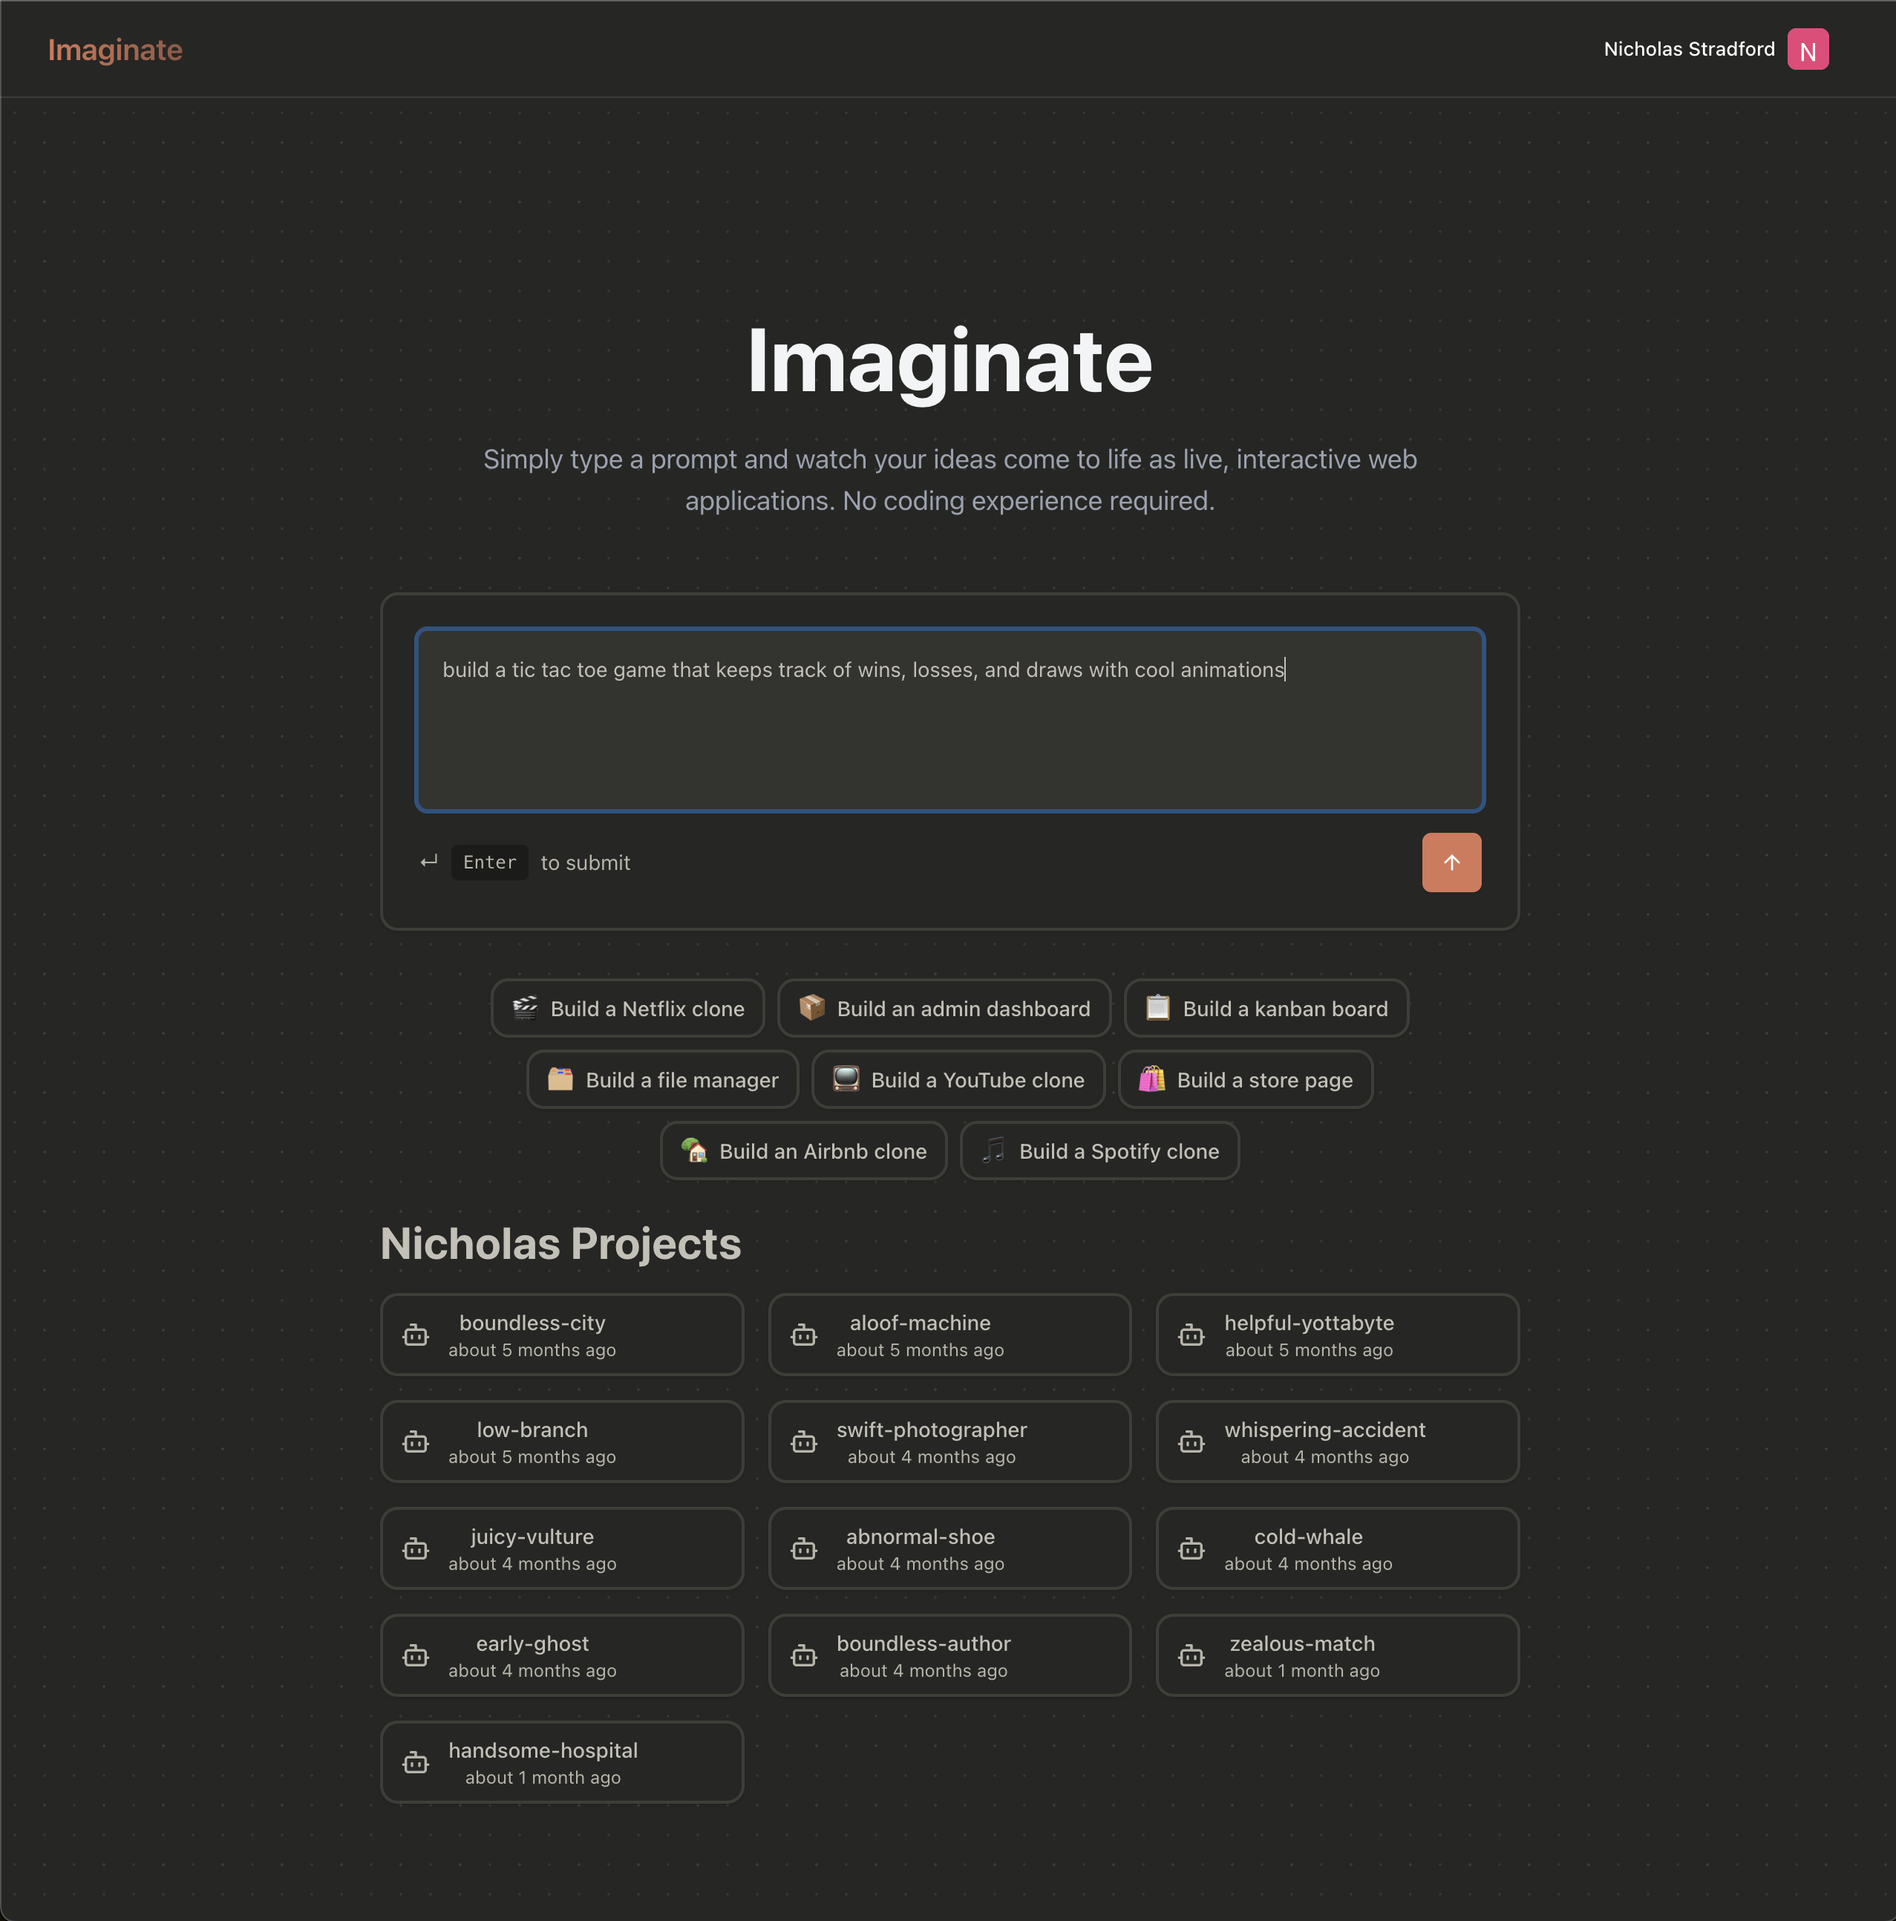
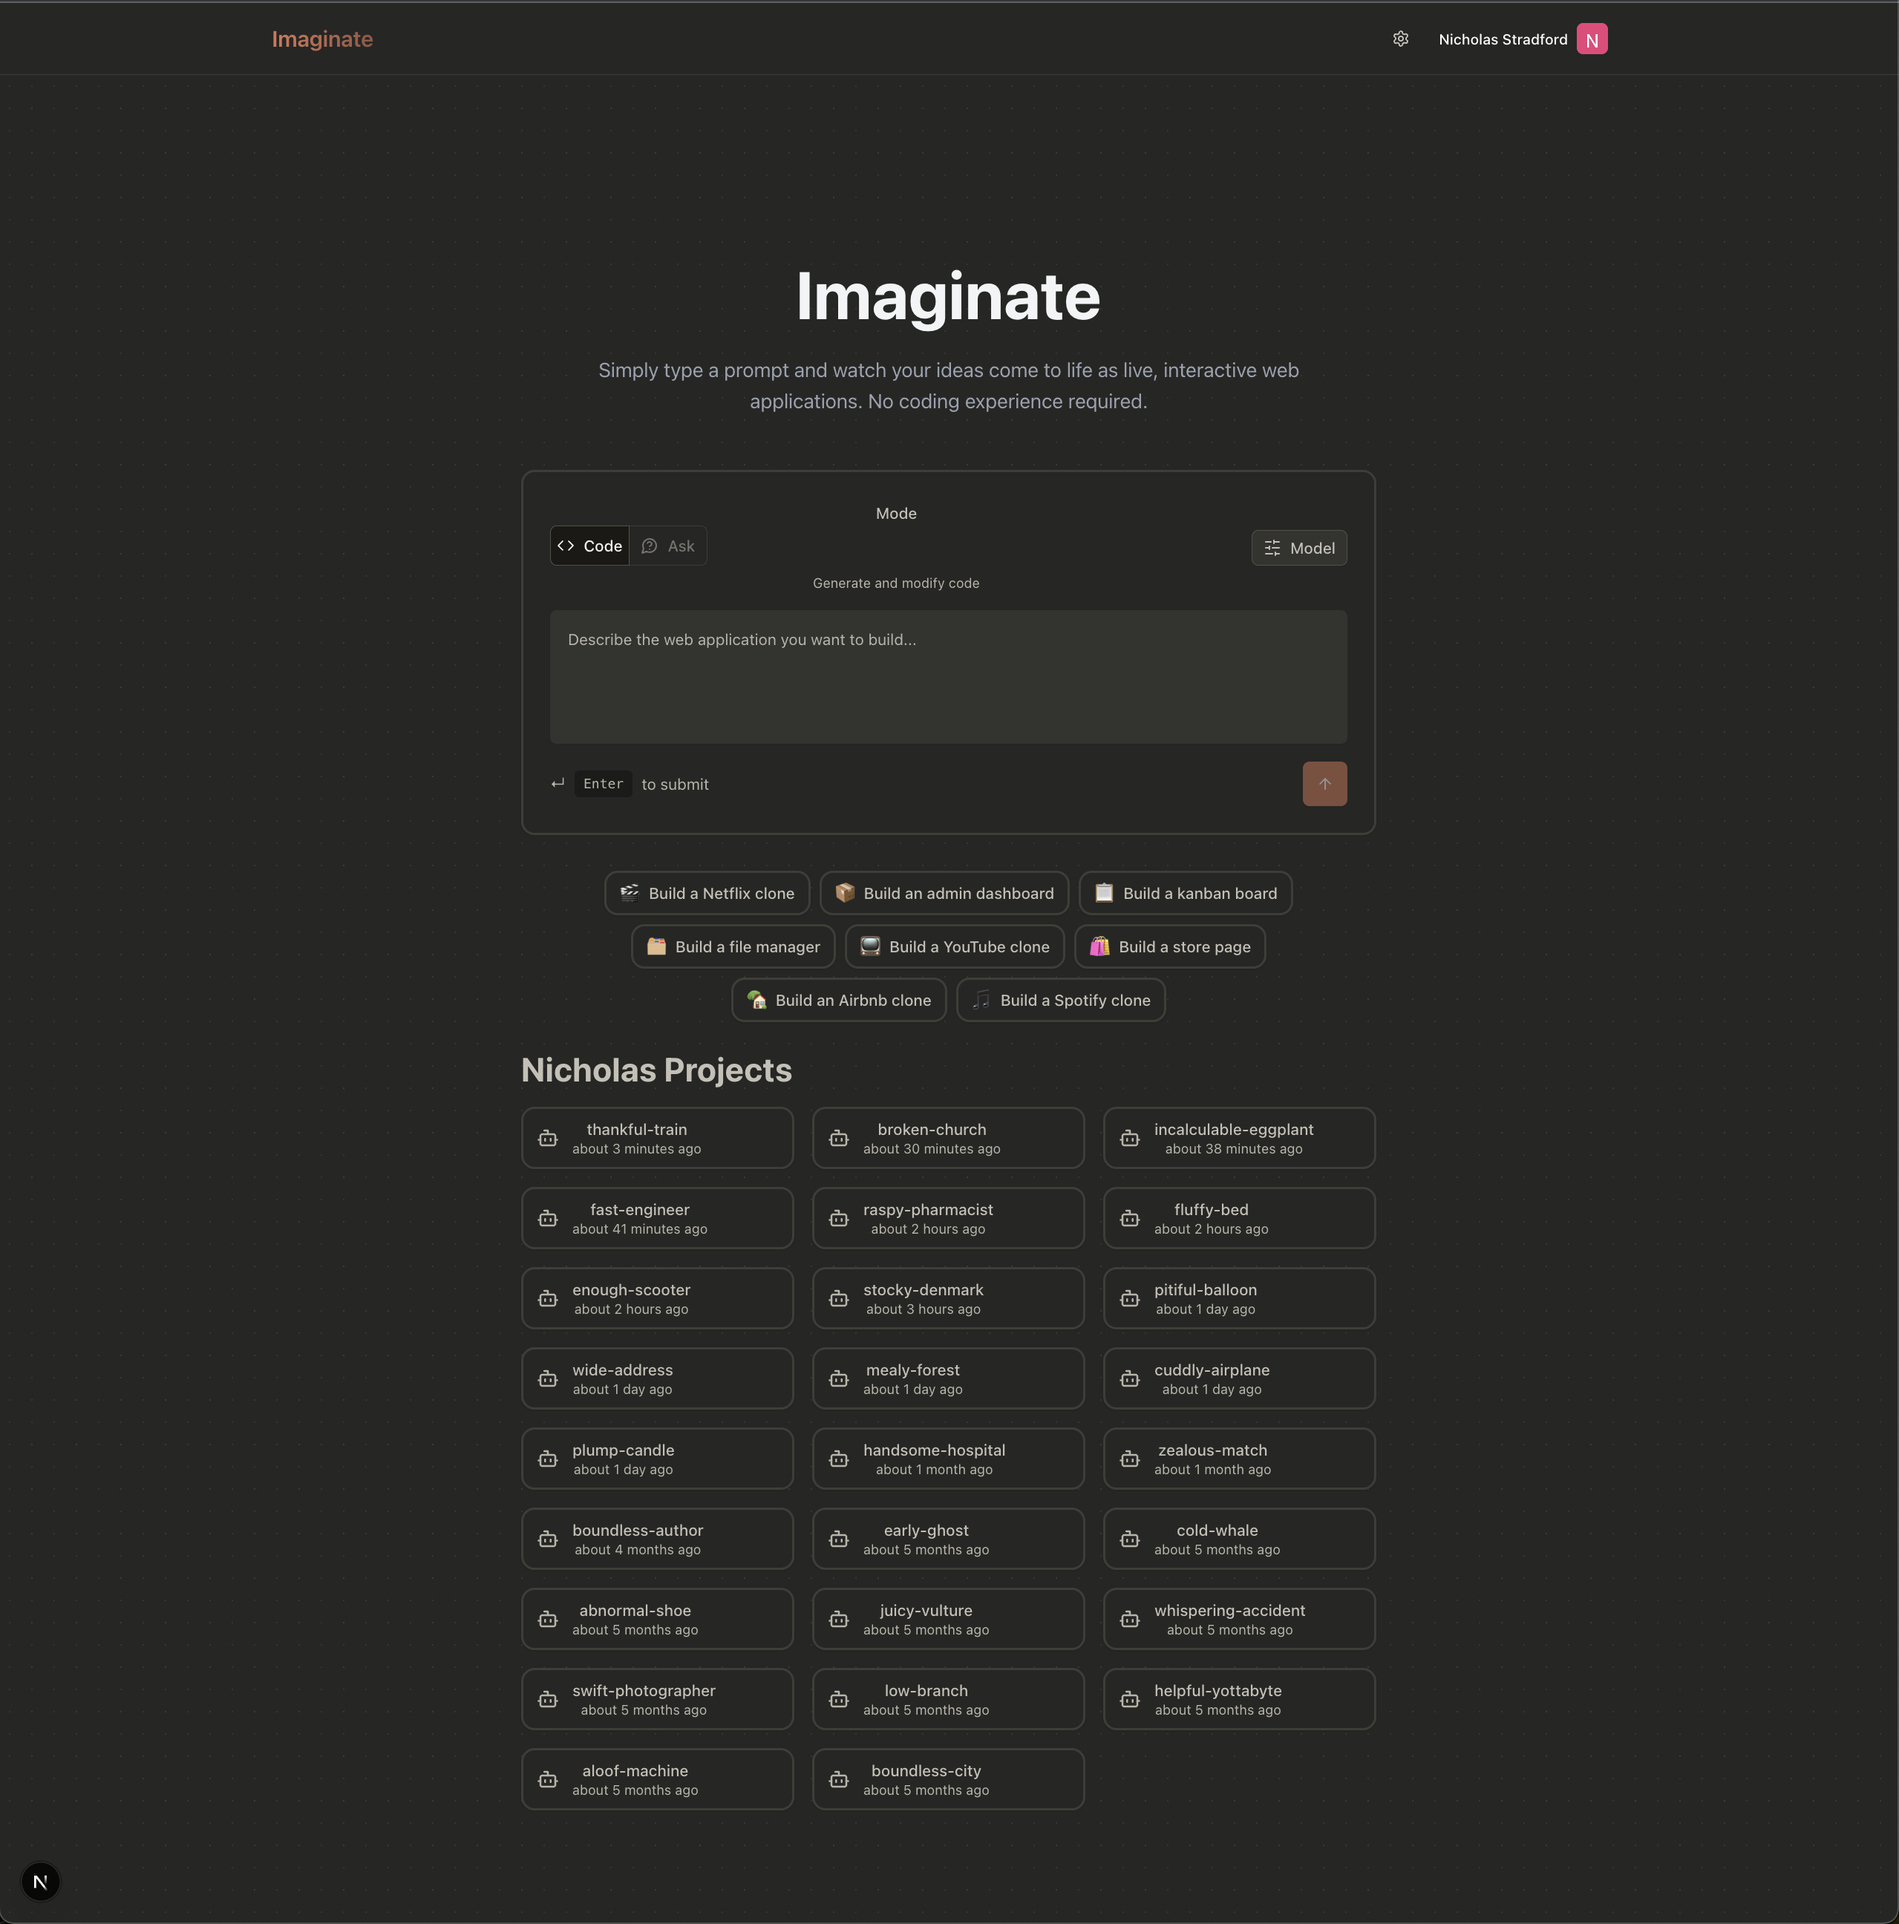
Update README screenshots

diff --git a/README.md b/README.md
@@ -18,16 +18,28 @@ bun dev
 
 ## Screenshots
 
+### Settings Page
+
+This view allows you to set API keys for providers so that you can select that providers
+models when writing prompts.
+![Chat Page](screenshots/settings.png)
+
 ### Landing Page(Tic-tac-toe question)
 
+You can also select the model\ you'd like to use based on if you have set an
+api key for that provider in `settings`.
 ![Chat Page](screenshots/landing_page.png)
 
 ### Chat Page App View(Tic-tac-toe app)
 
+This view has the ability to answer prompts in "Ask" mode or "Code" mode. You can also select the model
+you'd like to use based on if you have set an api key for that provider in `settings`.
 ![Chat Page App](screenshots/app_view.png)
 
 ### Chat Page Code View(Tic-tac-toe app)
 
+This view has the ability to answer prompts in "Ask" mode or "Code" mode. You can also select the model
+you'd like to use based on if you have set an api key for that provider in `settings`.
 ![Chat Page Code](screenshots/code_view.png)
 
 ### Technology Used
